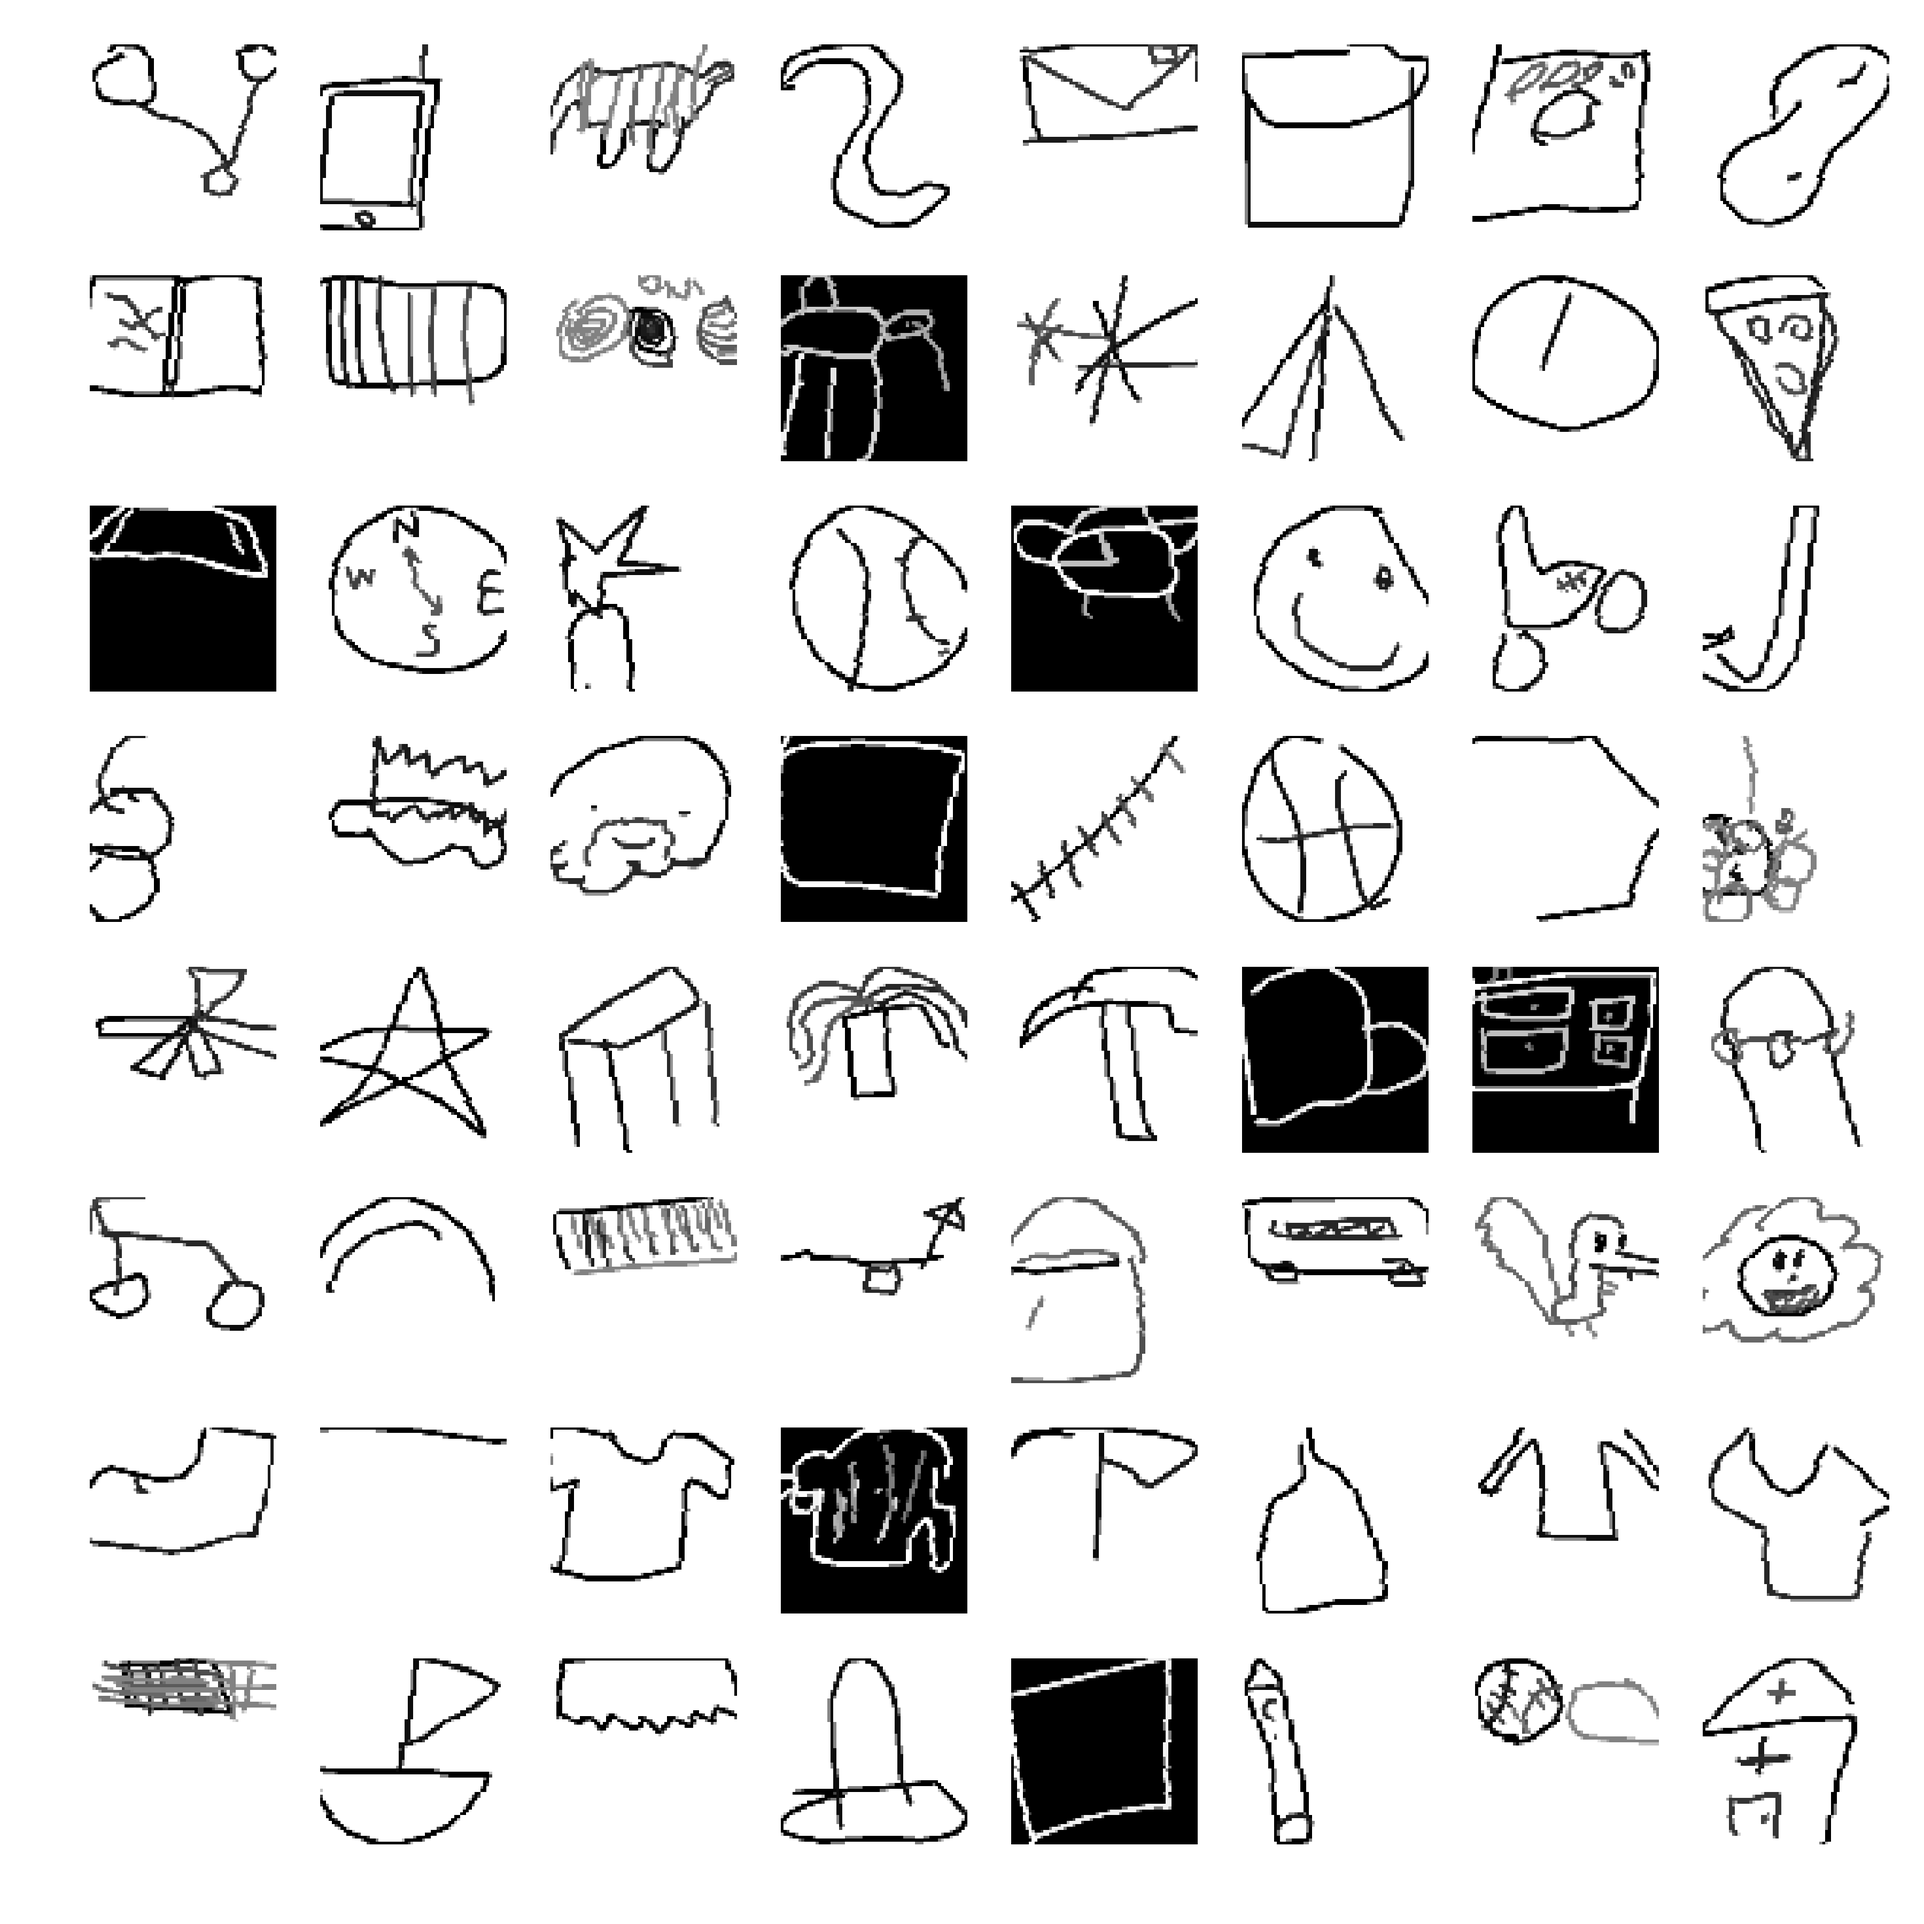
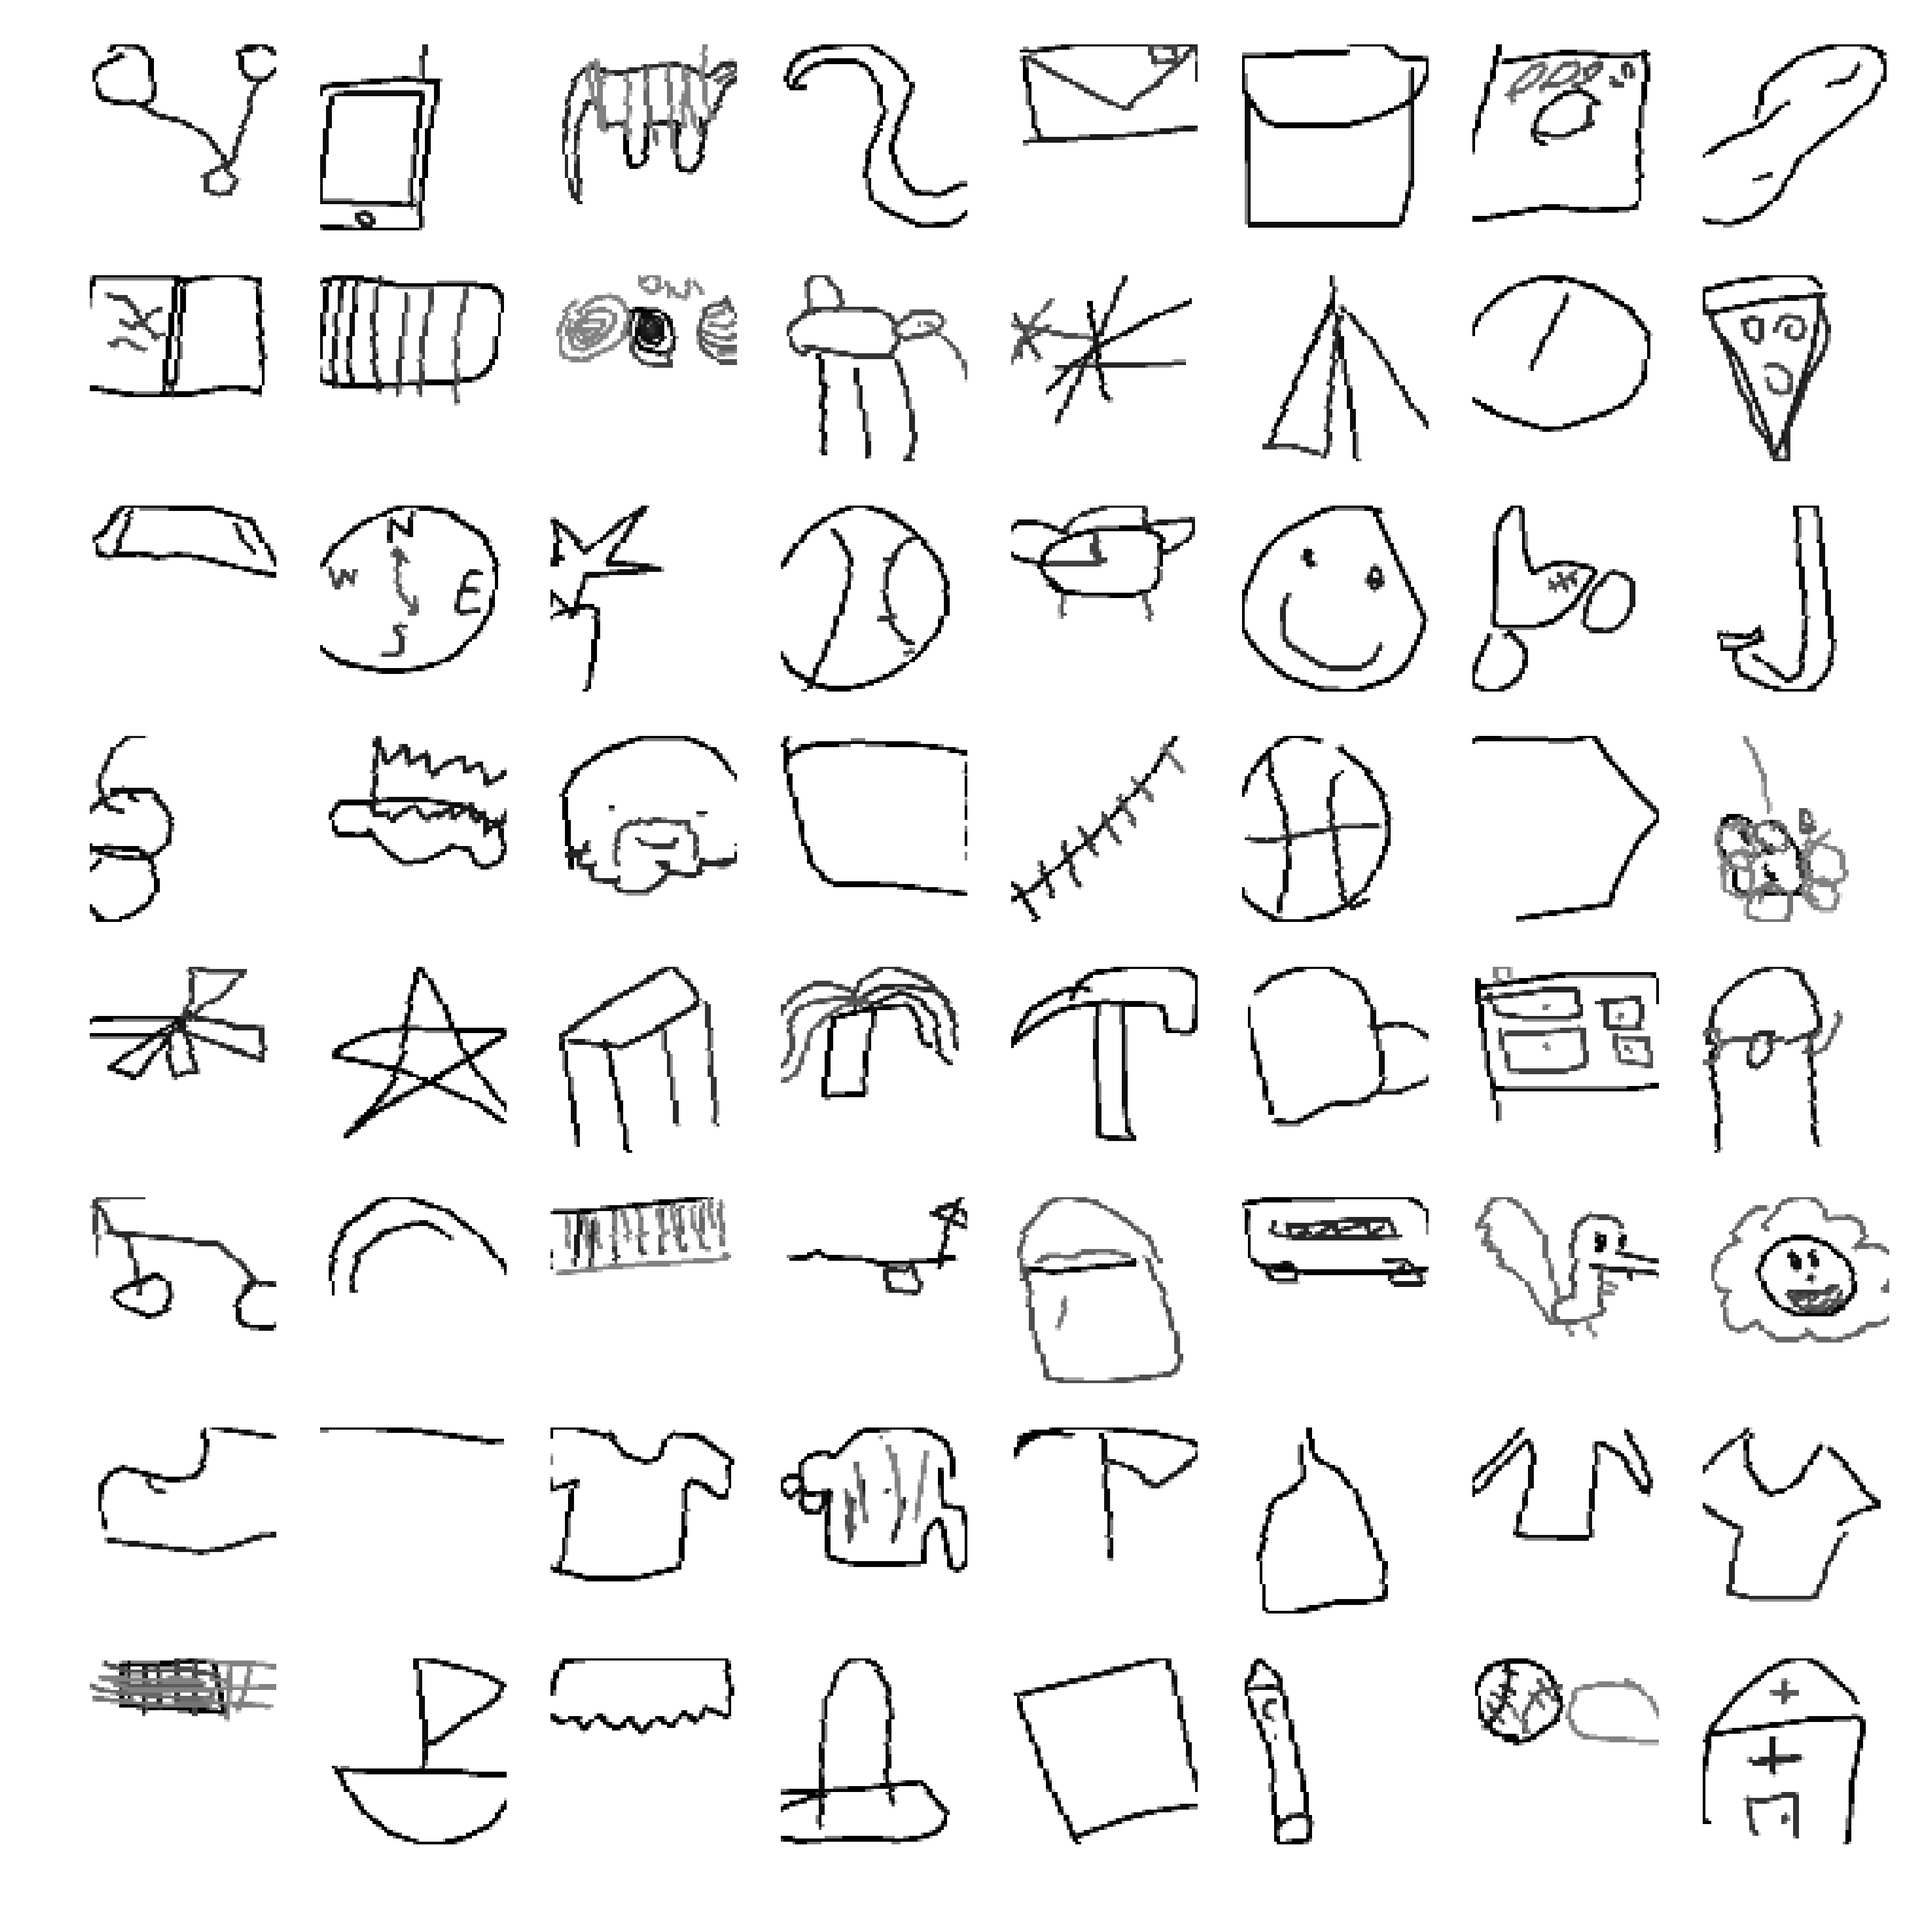
failed test using strict svhn augmentations

diff --git a/transfer_learning/quickdraw/svhn_strict_pos_policies.py b/transfer_learning/quickdraw/svhn_strict_pos_policies.py
@@ -1,0 +1,37 @@
+# Copyright 2018 The TensorFlow Authors All Rights Reserved.
+#
+# Licensed under the Apache License, Version 2.0 (the "License");
+# you may not use this file except in compliance with the License.
+# You may obtain a copy of the License at
+#
+#     http://www.apache.org/licenses/LICENSE-2.0
+#
+# Unless required by applicable law or agreed to in writing, software
+# distributed under the License is distributed on an "AS IS" BASIS,
+# WITHOUT WARRANTIES OR CONDITIONS OF ANY KIND, either express or implied.
+# See the License for the specific language governing permissions and
+# limitations under the License.
+# ==============================================================================
+
+from __future__ import absolute_import
+from __future__ import division
+from __future__ import print_function
+
+
+def good_policies():
+  """AutoAugment policies found on shvn."""
+  return [
+      [('ShearX',0.9,4),('Invert',0,3)],
+      [('ShearX',0.9,4),('Invert',0,3)],
+      [('ShearY',0.9,8),('Invert',0,5)],
+[('Equalize',0,1),('Rotate',0.9,3)],
+[('ShearY',0.9,8),('Invert',0,5)],
+[('ShearY',0.8,8),('Invert',0,4)],
+[('Equalize',0,5),('TranslateY',0.6,6)],
+[('Invert',0,5),('TranslateY',0.0,2)],
+[('Invert',0,4),('Rotate',0.8,4)],
+[('ShearY',0.3,7),('TranslateX',0.9,3)],
+[('ShearX',0.1,6),('Invert',0,5)],
+[('ShearY',0.8,4),('Invert',0,8)],
+[('ShearX',0.7,9),('TranslateY',0.8,3)],
+[('ShearX',0.7,2),('Invert',0,5)]]

diff --git a/transfer_learning/quickdraw/greyscale-mobilenet-lb-0-892.py b/transfer_learning/quickdraw/greyscale-mobilenet-lb-0-892.py
@@ -128,7 +128,7 @@ print(model.summary())
 # In[8]:
 
 
-from svhn_noncolor_policies import good_policies
+from svhn_strict_pos_policies import good_policies
 from augmentation_transforms import *
 
 my_policies = good_policies()
@@ -223,6 +223,17 @@ for i in range(n**2):
 plt.tight_layout()
 fig.savefig('gs.png', dpi=300)
 
+augment=True
+x, y = next(train_datagen)
+n = 8
+fig, axs = plt.subplots(nrows=n, ncols=n, sharex=True, sharey=True, figsize=(12, 12))
+for i in range(n**2):
+    ax = axs[i // n, i % n]
+    (-x[i]+1)/2
+    ax.imshow((-x[i, :, :, 0] + 1)/2, cmap=plt.cm.gray)
+    ax.axis('off')
+plt.tight_layout()
+fig.savefig('gs2.png', dpi=300)
 
 
 # In[10]:
@@ -234,7 +245,7 @@ callbacks = [
 ]
 hists = []
 
-augment = False
+augment = True 
 hist = model.fit_generator(
     train_datagen, steps_per_epoch=STEPS, epochs=EPOCHS, verbose=1,
     validation_data=(x_valid, y_valid),
@@ -257,7 +268,7 @@ hists.append(hist)
 
 # In[12]:
 
-augment = False
+augment =True 
 hist = model.fit_generator(
     train_datagen, steps_per_epoch=STEPS, epochs=EPOCHS, verbose=1,
     validation_data=(x_valid, y_valid),
